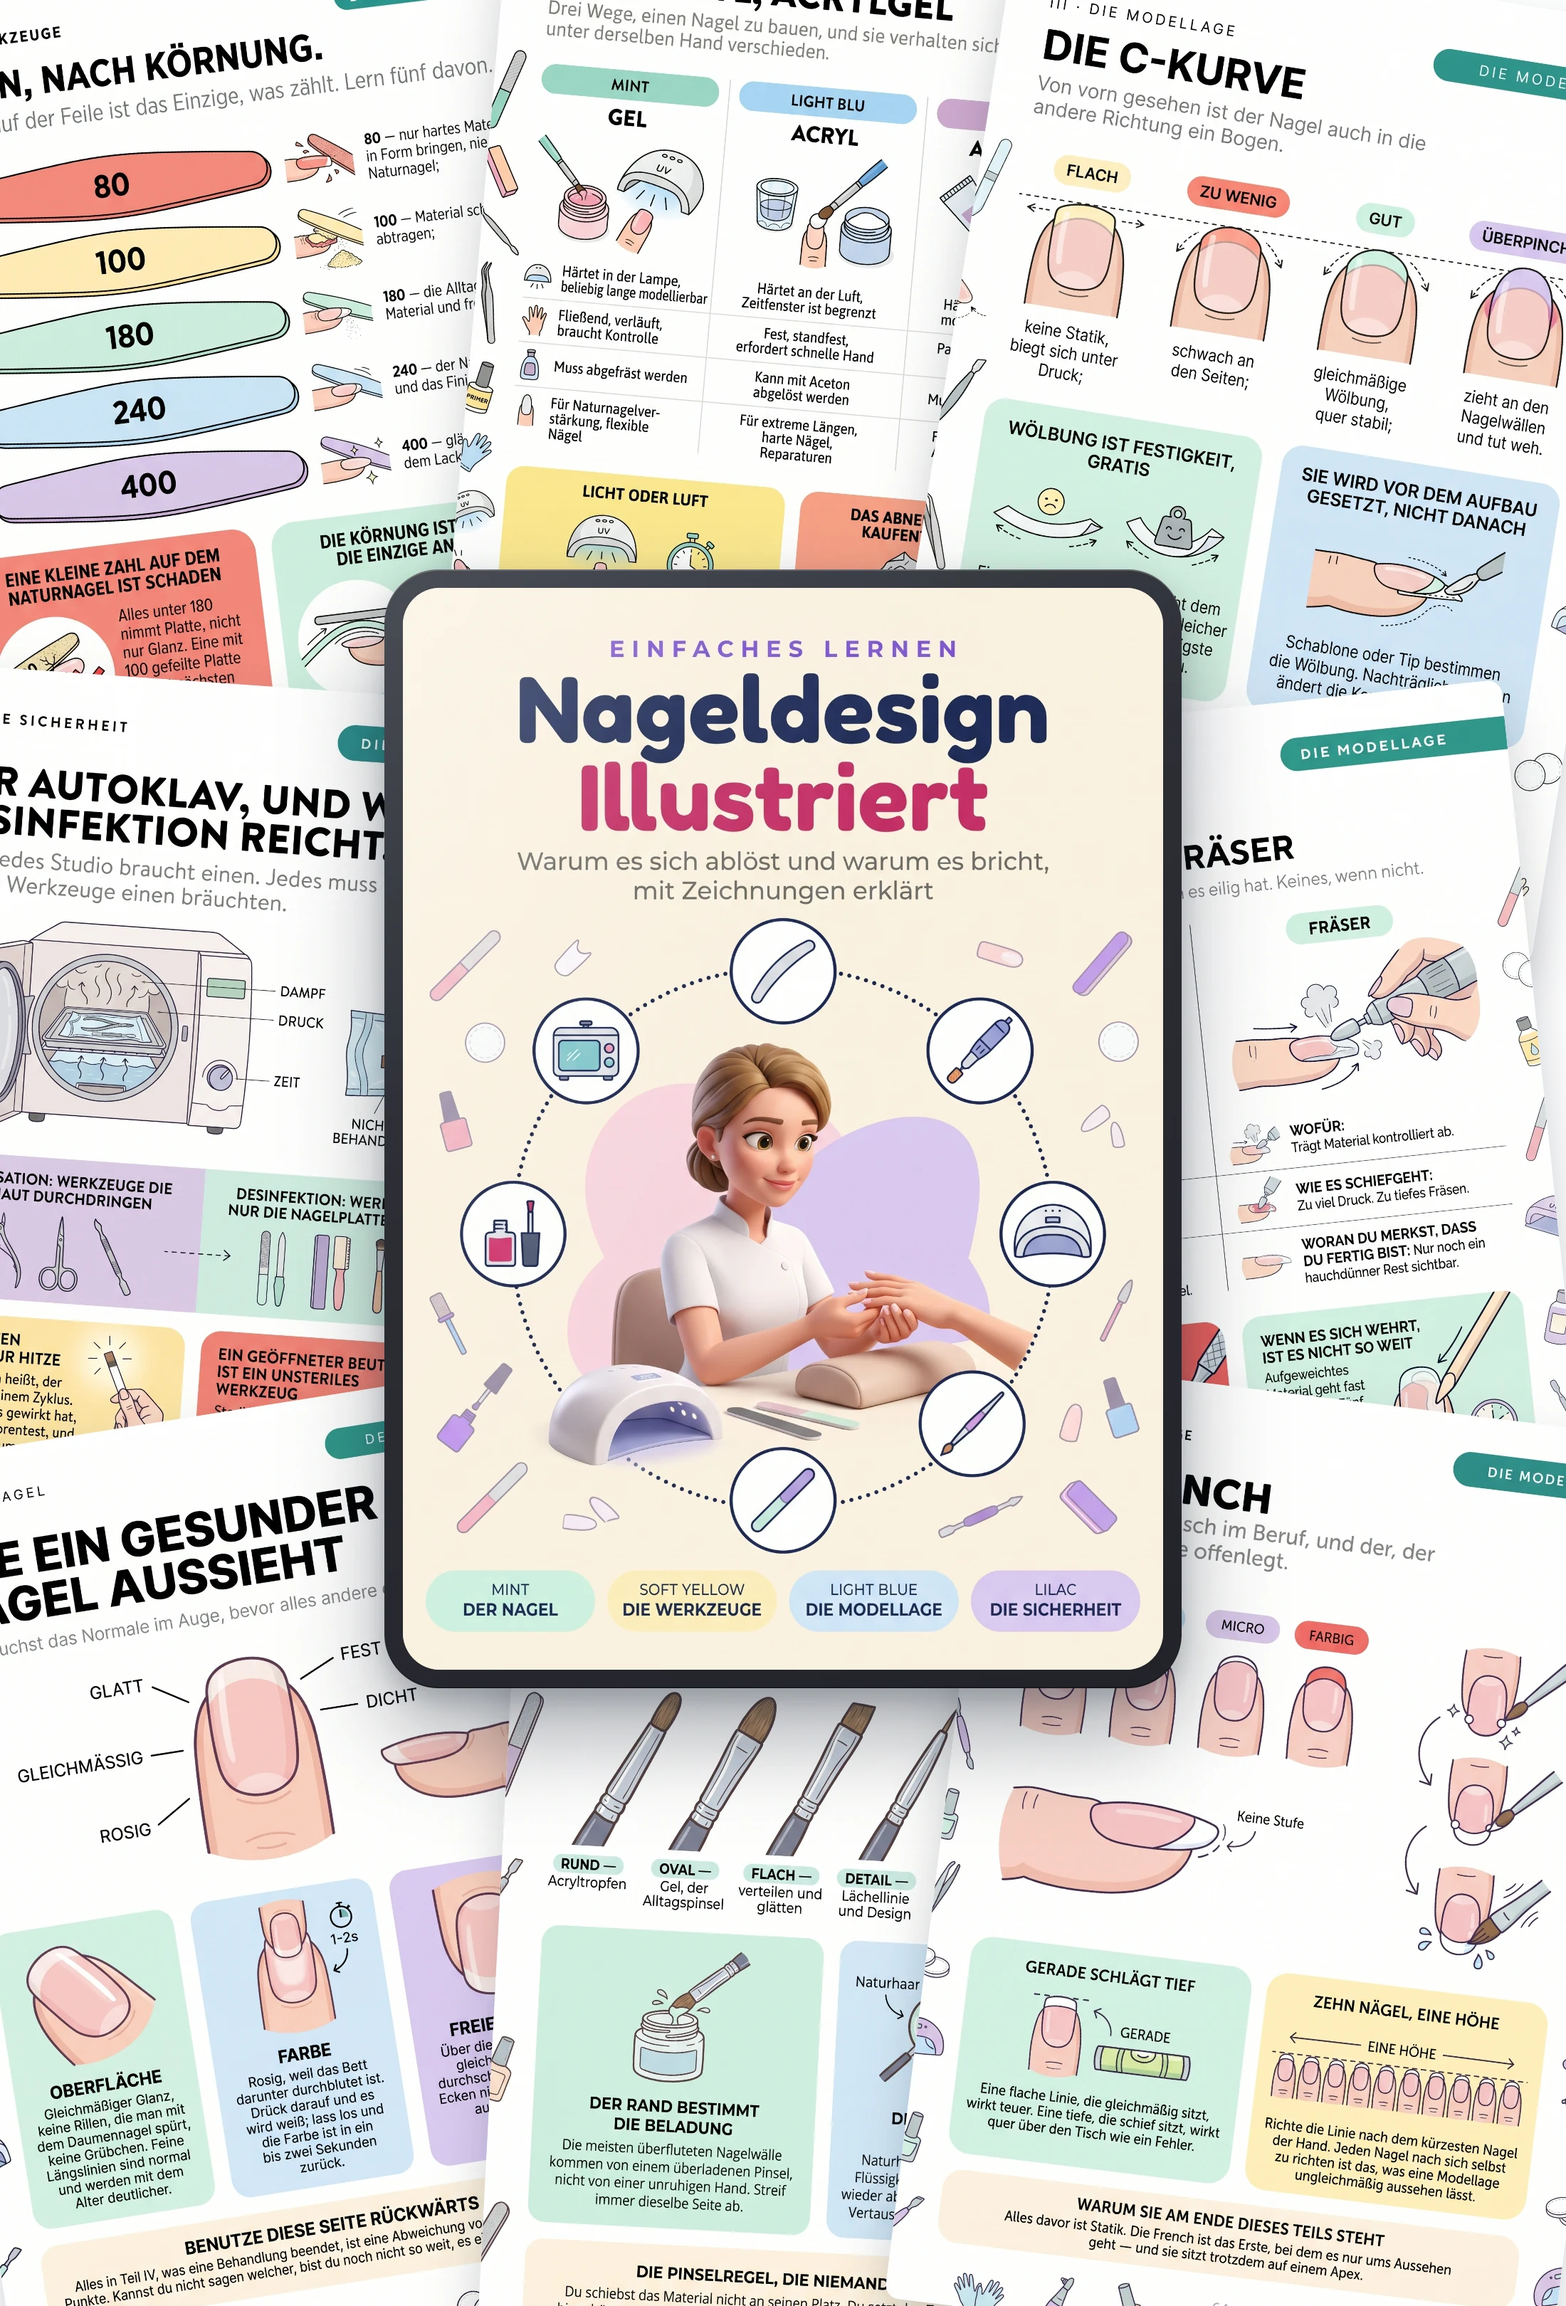
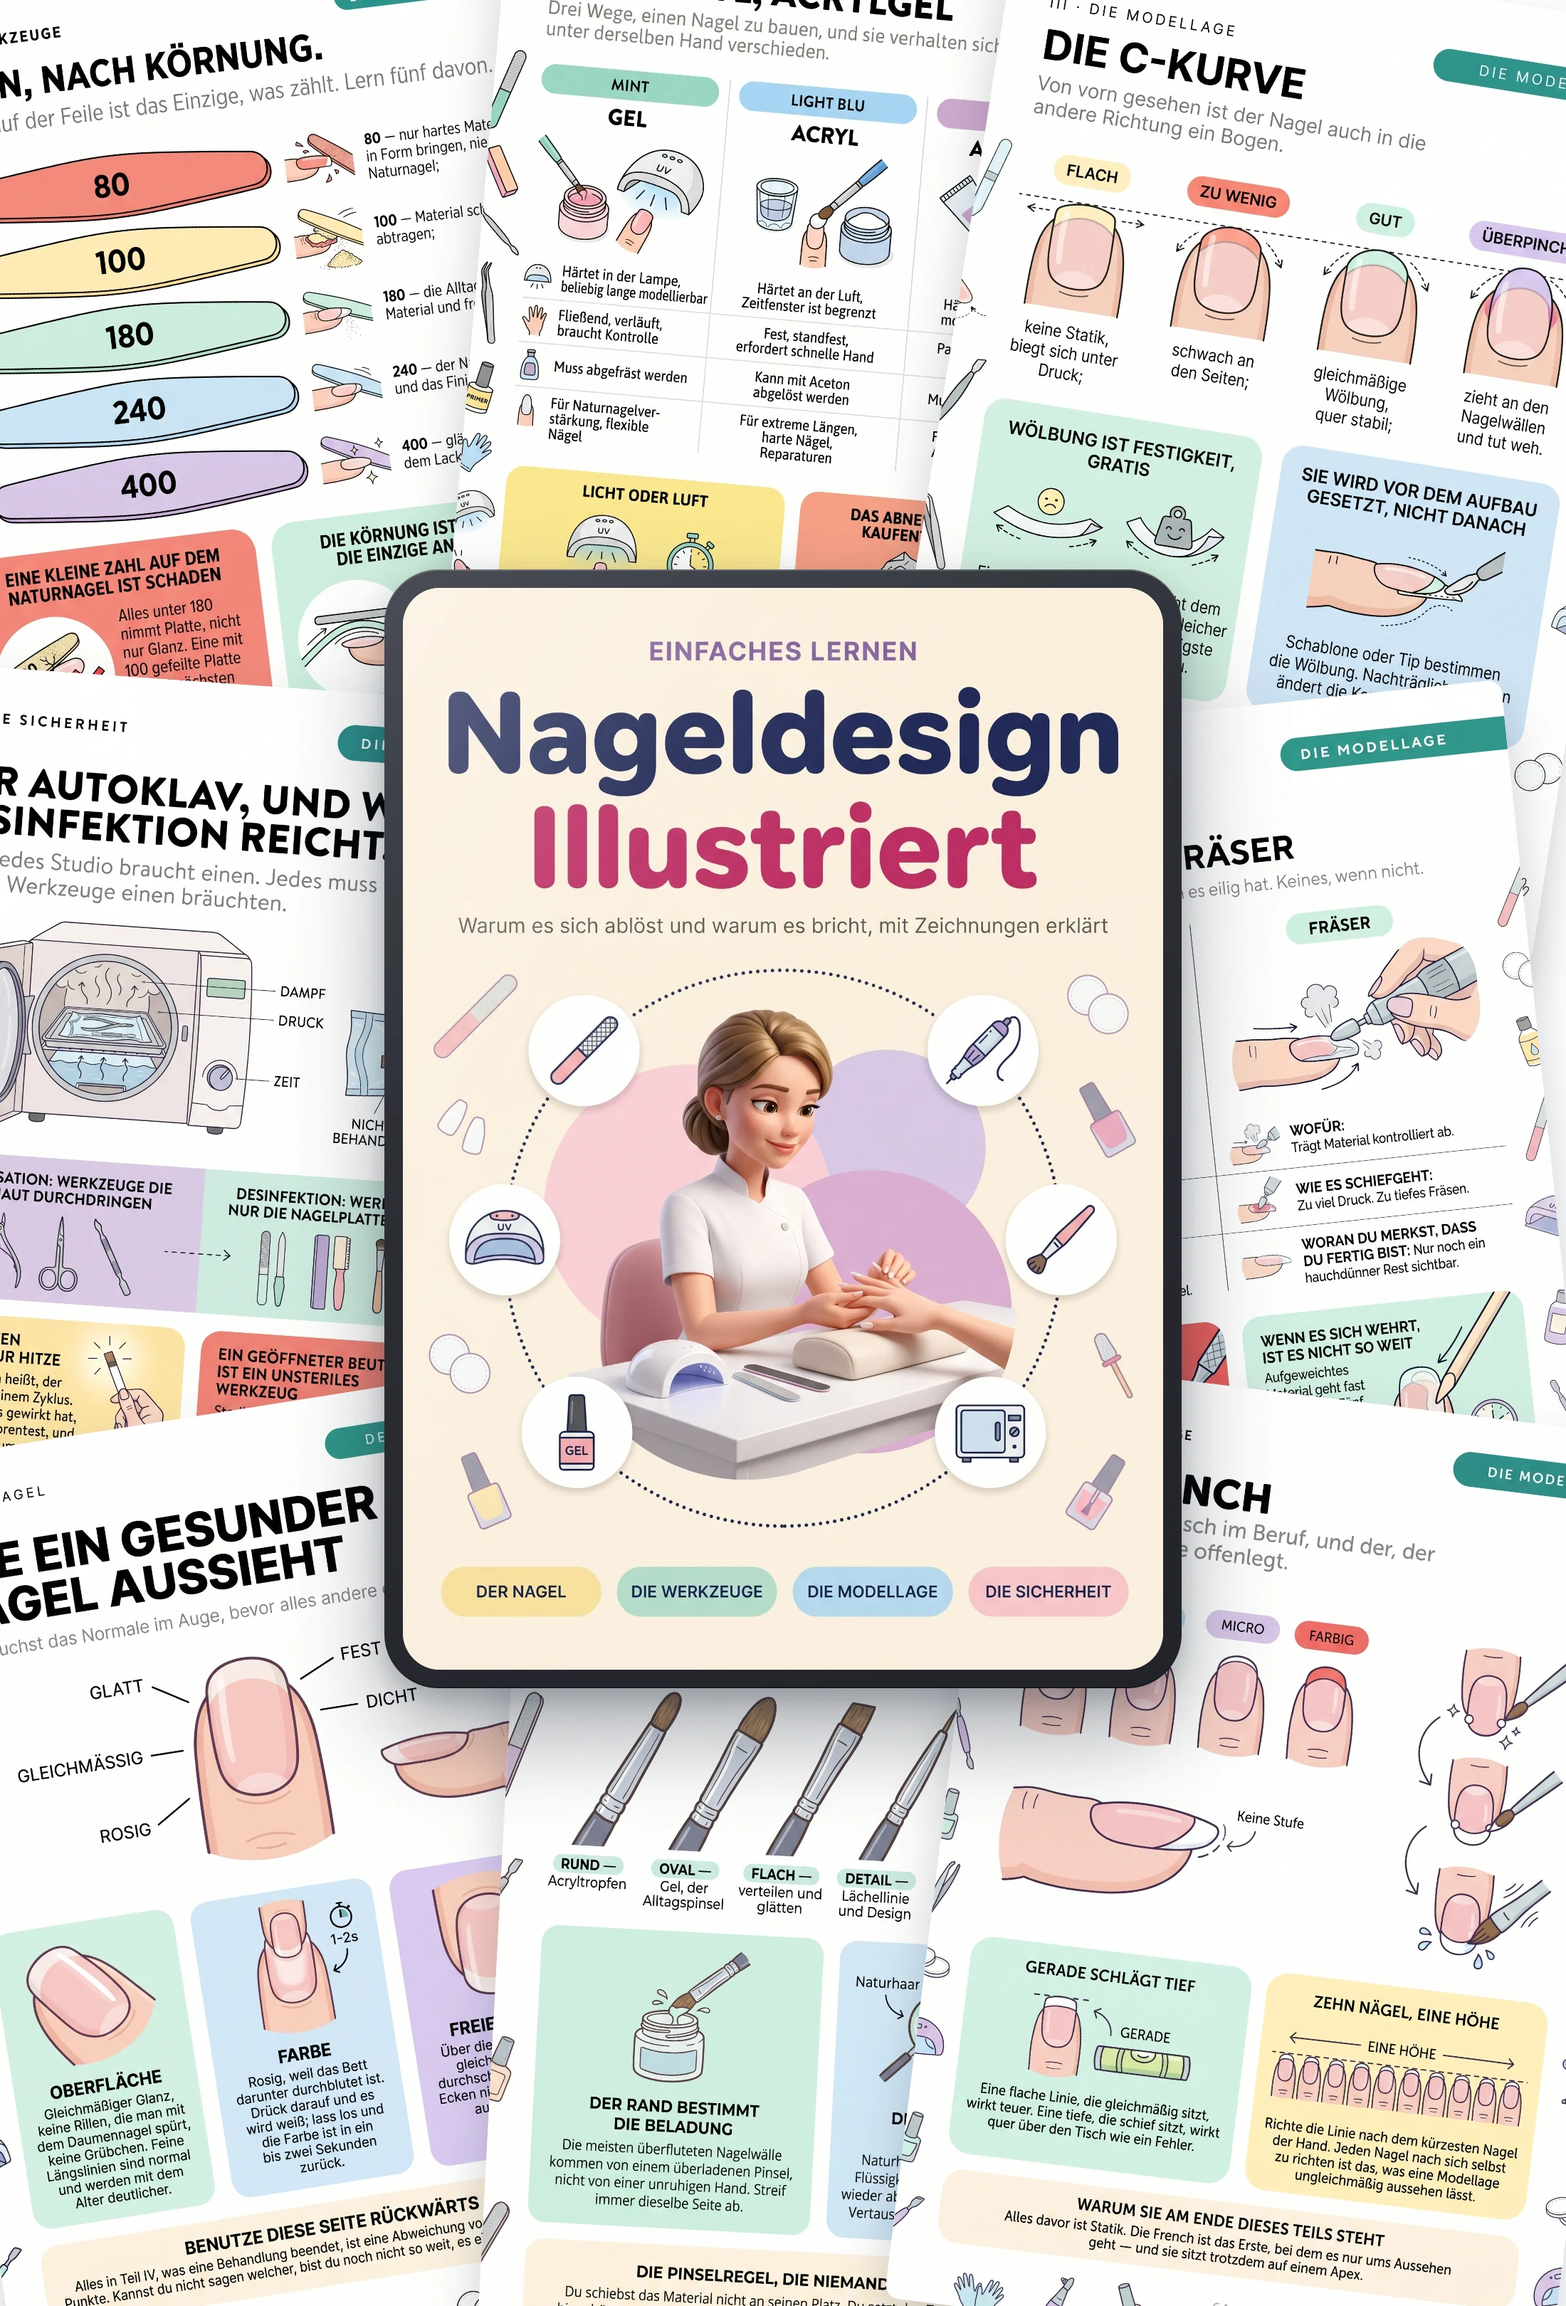
Copertina tedesca e p.75: due testi in inglese, e i mockup che li portavano
Due difetti nel PDF che il compratore scarica:

  - la copertina stampava i NOMI DEI COLORI sopra le quattro pillole
    («MINT», «SOFT YELLOW», «LIGHT BLUE», «LILAC» sopra «DER NAGEL»,
    «DIE WERKZEUGE»...). Il prompt li elencava nella riga «Palette» come
    riferimento e il modello li ha letti come etichette da scrivere;
  - p.75 (z_hema_a) chiudeva il pannello TPO in inglese: «Now forbidden
    due to new safety data». Il prompt chiedeva «un breve cenno che e'
    un fotoiniziatore» senza dare il testo, e il modello ha improvvisato
    il dato del divieto — nella sua lingua. Il pannello HEMA accanto,
    che il testo ce l'aveva scritto, e' sempre uscito giusto.

In tutti e due i casi la causa e' la stessa: dove il prompt descrive un
contenuto invece di dettarlo, il modello lo scrive come gli pare. Ora
il pannello TPO ha la frase tedesca parola per parola, e la riga della
palette dice che quei nomi sono per me e non vanno mai disegnati.

Aggiunto fai_copertina.py, che mancava: la copertina non sta in testi.py
e `build.py fai copertina` non la tocca; scegli_copertina.py arrivava dal
clone italiano e puntava a un copertine_prova.py che qui non e' mai
esistito. Senza REFS di build.py il modello si fermava su «Image not
found» dei riferimenti della farmacologia.

Rifatti anche hero, combo, og e i bonus: erano stati ritagliati dalla
copertina vecchia e la landing mostrava ancora quella coi nomi inglesi.

Changed region(s): [[0.2782, 0.2806, 0.7418, 0.717]]

diff --git a/de/naegel.html b/de/naegel.html
@@ -2149,7 +2149,7 @@
   <section class="hero">
     <div class="hero-content">
       <div class="hero-mockup">
-        <img src="https://czocbnyoenjbpxmcqobn.supabase.co/storage/v1/object/public/algoritmia-img/studiofacile/mockups/naegel_de/hero.webp?v=dd00047d" alt="Nageldesign Illustriert, mit Bevor du die Lampe einschaltest und Was ich der Kundin sage gratis dazu"
+        <img src="https://czocbnyoenjbpxmcqobn.supabase.co/storage/v1/object/public/algoritmia-img/studiofacile/mockups/naegel_de/hero.webp?v=41875c4c" alt="Nageldesign Illustriert, mit Bevor du die Lampe einschaltest und Was ich der Kundin sage gratis dazu"
              width="1200" height="886" loading="eager" fetchpriority="high" decoding="async">
       </div>
       <p class="hero-social">
@@ -2384,7 +2384,7 @@
     <div class="container">
       <h2 class="text-center">Das Bekommst du mit Nageldesign Illustriert:</h2>
       <div style="margin: 20px auto 28px;">
-        <img src="https://czocbnyoenjbpxmcqobn.supabase.co/storage/v1/object/public/algoritmia-img/studiofacile/mockups/naegel_de/combo.webp?v=e34563c3" alt="Nageldesign Illustriert: Mockup mit Beispielseiten" width="1100" height="1620" loading="lazy" decoding="async" style="max-width: 480px; width: 100%; display: block; margin: 0 auto;">
+        <img src="https://czocbnyoenjbpxmcqobn.supabase.co/storage/v1/object/public/algoritmia-img/studiofacile/mockups/naegel_de/combo.webp?v=3c087d01" alt="Nageldesign Illustriert: Mockup mit Beispielseiten" width="1100" height="1620" loading="lazy" decoding="async" style="max-width: 480px; width: 100%; display: block; margin: 0 auto;">
       </div>
       <div class="topics-grid">
         <div class="topic-item">
@@ -2463,7 +2463,7 @@
 
       <!-- DECISION BOX -->
       <div class="decision-box" id="offerta">
-        <img src="https://czocbnyoenjbpxmcqobn.supabase.co/storage/v1/object/public/algoritmia-img/studiofacile/mockups/naegel_de/hero.webp?v=dd00047d" alt="Nageldesign Illustriert mit den zwei Bänden gratis dazu" class="db-mockup" width="1200" height="886" loading="lazy" decoding="async">
+        <img src="https://czocbnyoenjbpxmcqobn.supabase.co/storage/v1/object/public/algoritmia-img/studiofacile/mockups/naegel_de/hero.webp?v=41875c4c" alt="Nageldesign Illustriert mit den zwei Bänden gratis dazu" class="db-mockup" width="1200" height="886" loading="lazy" decoding="async">
         <h3 class="db-title">Nageldesign Illustriert + 2 Bände Gratis</h3>
         <ul class="db-checklist">
           <li><span class="db-check"><svg viewBox="0 0 24 24"><polyline points="20 6 9 17 4 12"/></svg></span>Nageldesign Illustriert: 87 illustrierte Seiten<span class="db-price-val">58,20€</span></li>
